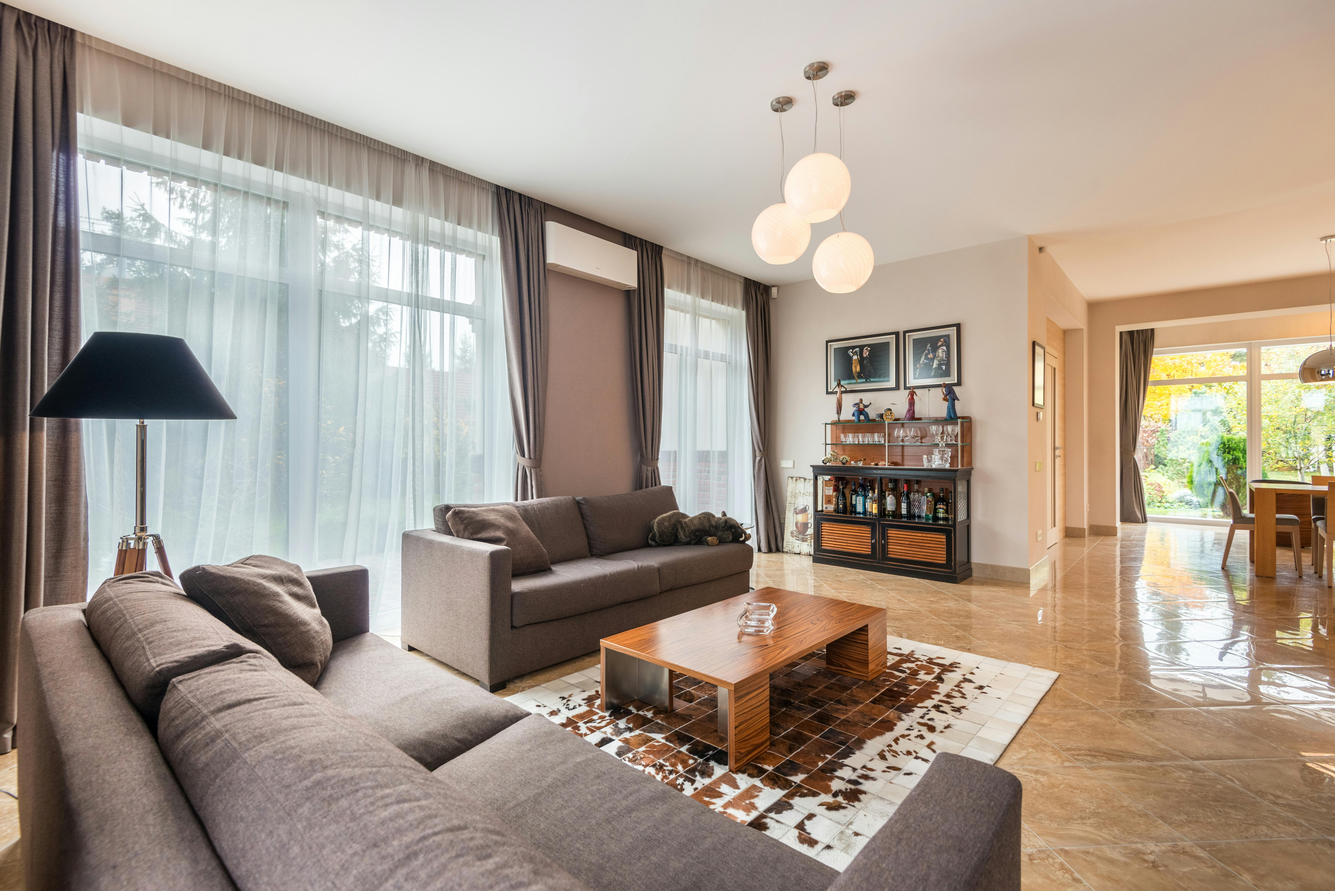
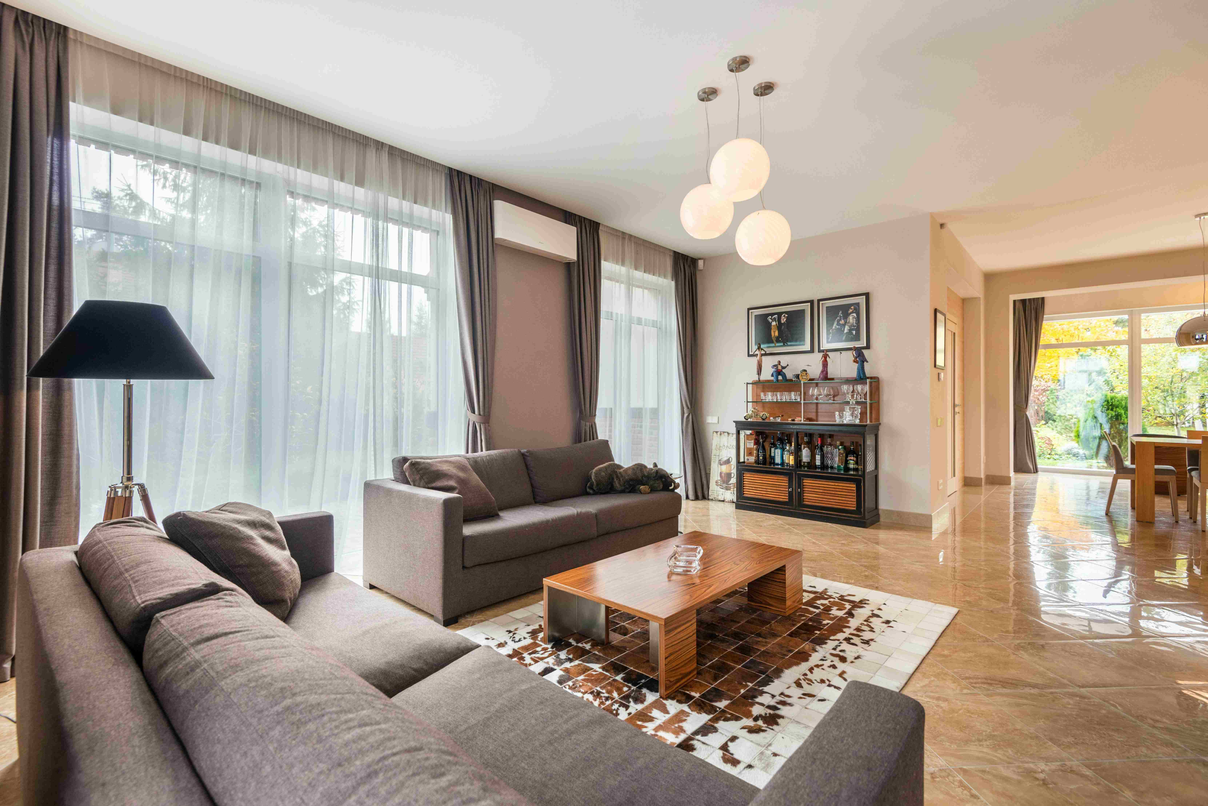
Herosection images compressed and rest slideshow start to 0

diff --git a/frontend/src/pages/Home/sections/HeroSection.jsx b/frontend/src/pages/Home/sections/HeroSection.jsx
@@ -32,7 +32,7 @@ export default function HeroSection() {
     },
   ];
 
-  const [activeSlide, setActiveSlide] = useState(3);
+  const [activeSlide, setActiveSlide] = useState(0);
   const [isPaused, setIsPaused] = useState(false);
   useEffect(() => {
     let interval;
